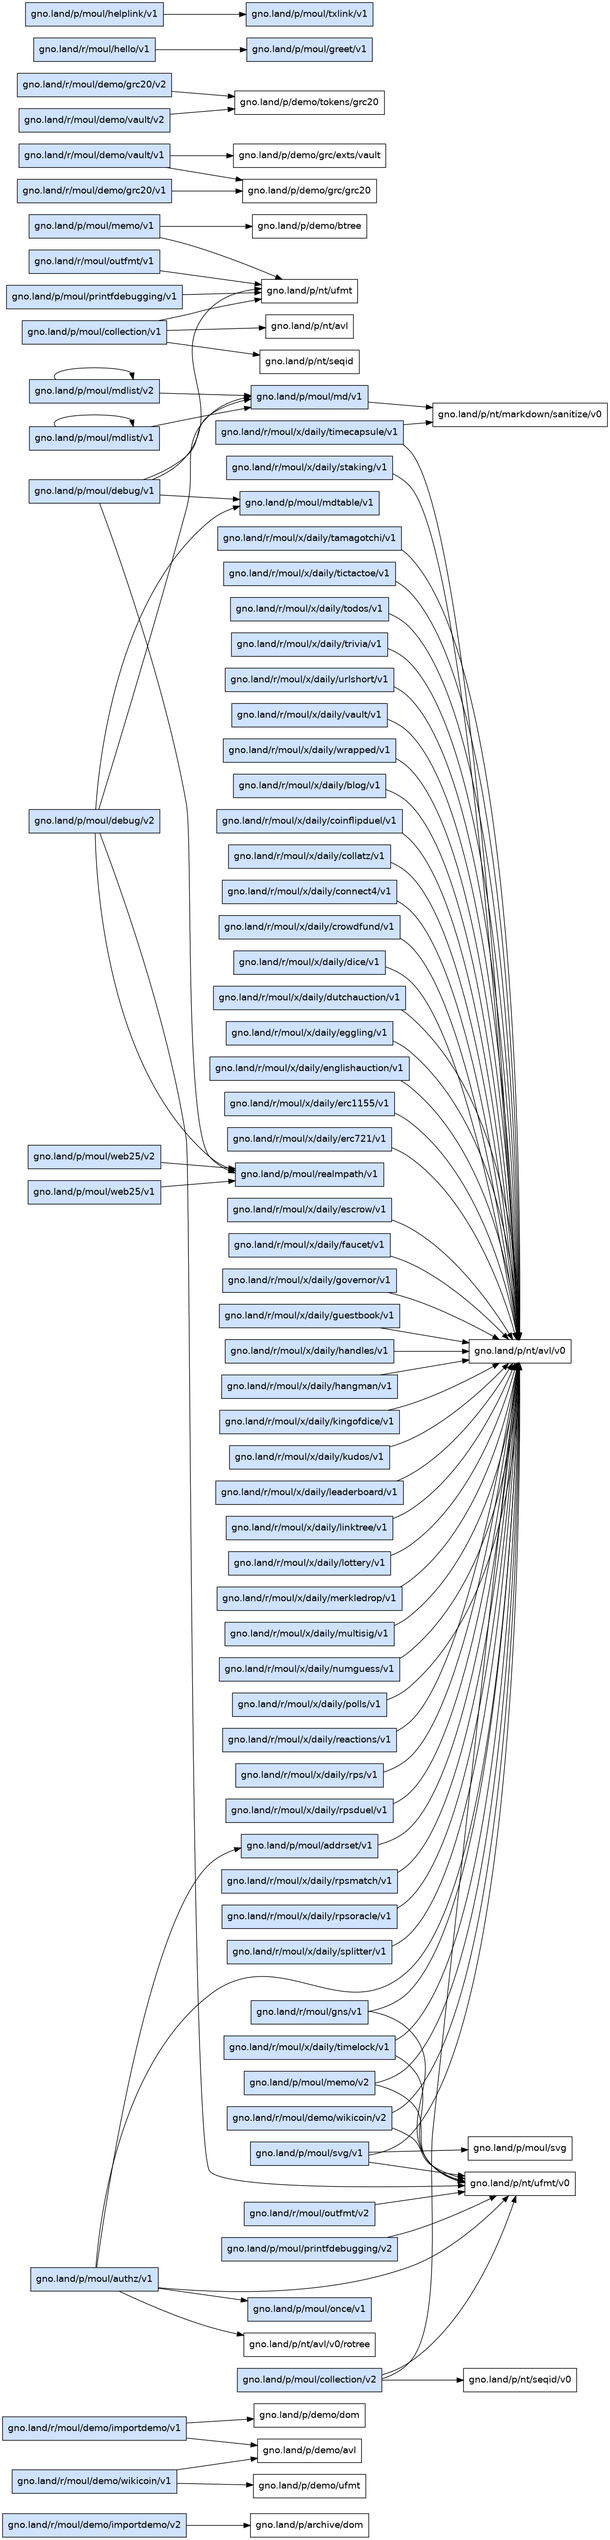
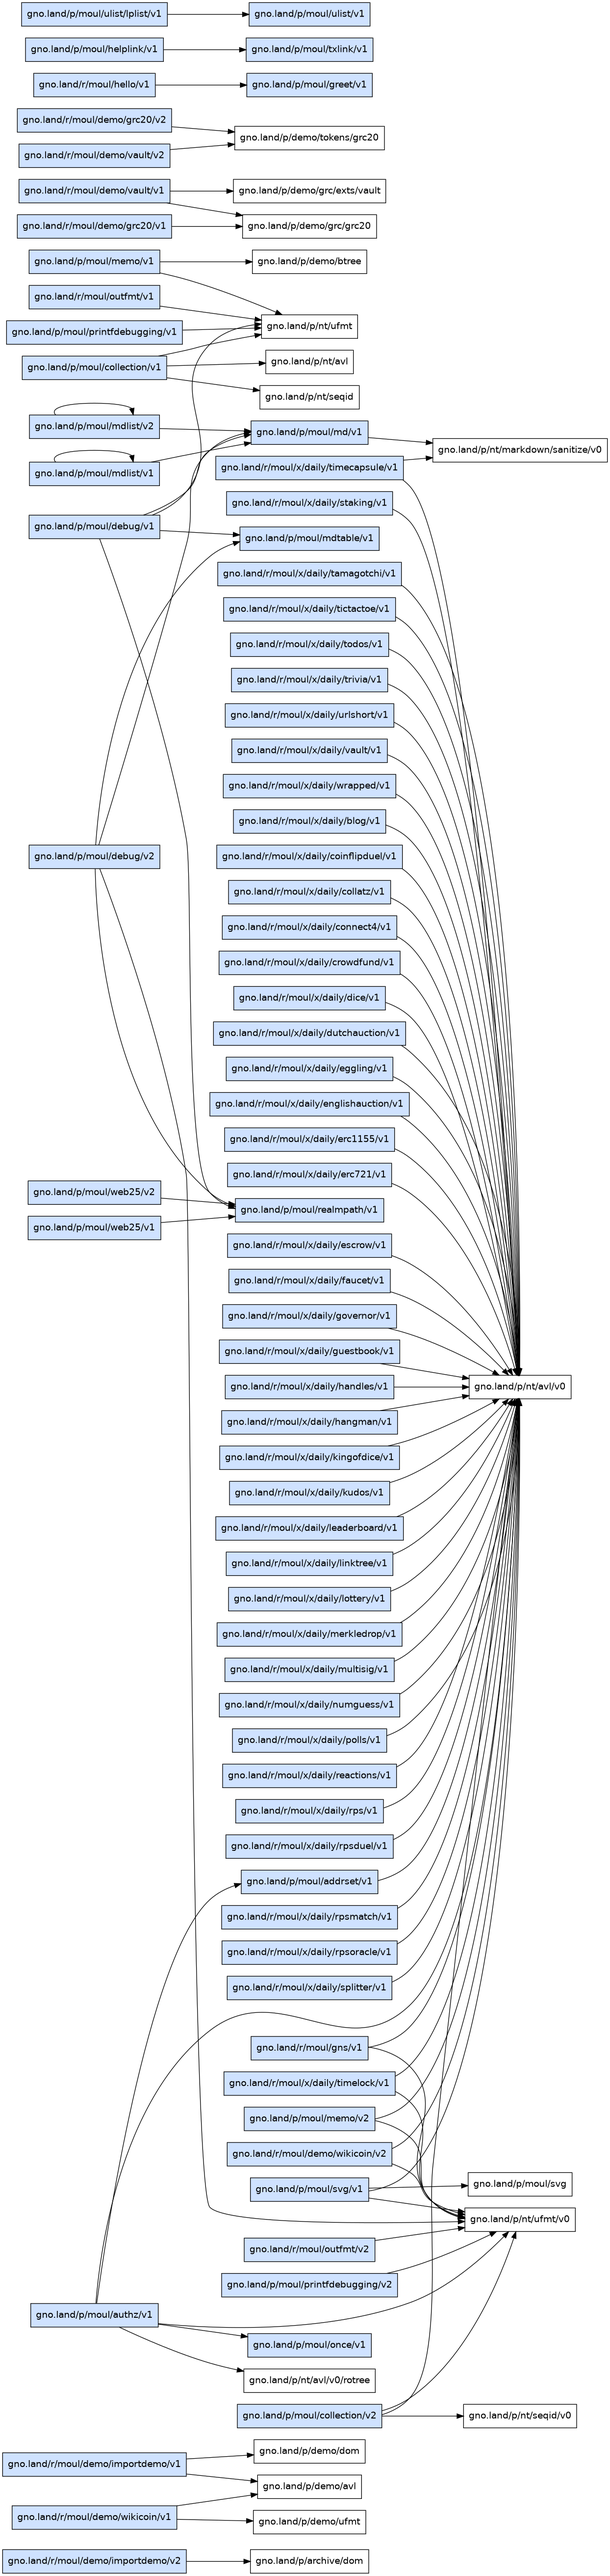
chore: regenerate catalog + READMEs + graphs

diff --git a/p/moul/ulist/lplist/v1/README.md b/p/moul/ulist/lplist/v1/README.md
@@ -5,3 +5,17 @@ append-only schema migration**: it wraps a source list with a target list and
 transforms source entries only when accessed (source stays immutable), and layers
 can be chained for multi-step migrations. Nested under `ulist` in the monorepo; it
 was missed on the original `ulist` import.
+
+<!-- BEGIN GNOCONTRACTS FOOTER (generated by `make readmes`; do not edit below) -->
+
+---
+
+Part of **[moul/gno-contracts](https://github.com/moul/gno-contracts)** — moul's versioned gno.land contracts. See the repository for the full catalog, build/test tooling, and usage.
+
+**Dependency graph:**
+
+![gno.land/p/moul/ulist/lplist/v1 dependency graph](https://raw.githubusercontent.com/moul/gno-contracts/main/_assets/gno.land/p/moul/ulist/lplist/v1/deps.png)
+
+> ⚠ **Disclaimer:** provided as-is, without warranty; not security-audited. Full disclaimer: [DISCLAIMER](https://github.com/moul/gno-contracts/blob/main/DISCLAIMER.md).
+
+<!-- END GNOCONTRACTS FOOTER -->

diff --git a/README.md b/README.md
@@ -92,6 +92,7 @@ make help        # list all targets
 | `gno.land/p/moul/svg/v1` | pkg | — | 3 | — | — | — | — |
 | `gno.land/p/moul/txlink/v1` | pkg | Build transaction (maketx) links for realms. | — | [src](https://github.com/gnolang/gno/tree/master/examples/gno.land/p/moul/txlink) | 📦 | — | 📦 |
 | `gno.land/p/moul/typeutil/v1` | pkg | Type conversion utilities. | — | [src](https://github.com/gnolang/gno/tree/master/examples/gno.land/p/moul/typeutil) | 📦 | — | 📦 |
+| `gno.land/p/moul/ulist/lplist/v1` | pkg | — | 1 | — | — | — | — |
 | `gno.land/p/moul/ulist/v1` | pkg | Append-only list backed by a binary tree. | — | [src](https://github.com/gnolang/gno/tree/master/examples/gno.land/p/moul/ulist) | 📦 | — | 📦 |
 | `gno.land/p/moul/web25/v1` | pkg | 💤  | 1 | — | — | — | — |
 | `gno.land/p/moul/web25/v2` | pkg | — | 1 | — | — | — | — |
